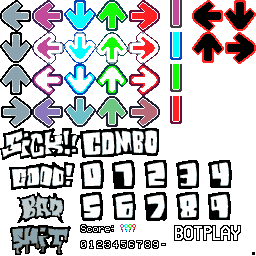
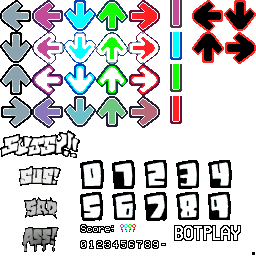
menu and hud stuff (not done)
still have to add difficulty select stuff, loading screen, and the title screen

Changed region(s): [[0.0, 0.5, 0.625, 1.0]]

diff --git a/src/menu.c b/src/menu.c
@@ -31,42 +31,14 @@ static u32 Sounds[3];
 static char scoredisp[30];
 //Menu messages
 static const char *funny_messages[][2] = {
-	{"PSX PORT BY CUCKYDEV", "YOU KNOW IT"},
-	{"PORTED BY CUCKYDEV", "WHAT YOU GONNA DO"},
-	{"FUNKIN", "FOREVER"},
-	{"WHAT THE HELL", "RITZ PSX"},
-	{"LIKE PARAPPA", "BUT COOLER"},
-	{"THE JAPI", "EL JAPI"},
-	{"PICO FUNNY", "PICO FUNNY"},
-	{"OPENGL BACKEND", "BY CLOWNACY"},
-	{"CUCKYFNF", "SETTING STANDARDS"},
-	{"lool", "inverted colours"},
-	{"NEVER LOOK AT", "THE ISSUE TRACKER"},
-	{"PSXDEV", "HOMEBREW"},
-	{"ZERO POINT ZERO TWO TWO EIGHT", "ONE FIVE NINE ONE ZERO FIVE"},
-	{"DOPE ASS GAME", "PLAYSTATION MAGAZINE"},
-	{"NEWGROUNDS", "FOREVER"},
-	{"NO FPU", "NO PROBLEM"},
-	{"OK OKAY", "WATCH THIS"},
-	{"ITS MORE MALICIOUS", "THAN ANYTHING"},
-	{"USE A CONTROLLER", "LOL"},
-	{"SNIPING THE KICKSTARTER", "HAHA"},
-	{"SHITS UNOFFICIAL", "NOT A PROBLEM"},
-	{"SYSCLK", "RANDOM SEED"},
-	{"THEY DIDNT HIT THE GOAL", "STOP"},
-	{"FCEFUWEFUETWHCFUEZDSLVNSP", "PQRYQWENQWKBVZLZSLDNSVPBM"},
-	{"THE FLOORS ARE", "THREE DIMENSIONAL"},
-	{"PSXFUNKIN BY CUCKYDEV", "SUCK IT DOWN"},
-	{"PLAYING ON EPSXE HUH", "YOURE THE PROBLEM"},
-	{"NEXT IN LINE", "ATARI"},
-	{"HAXEFLIXEL", "COME ON"},
-	{"HAHAHA", "I DONT CARE"},
-	{"GET ME TO STOP", "TRY"},
-	{"FNF MUKBANG GIF", "THATS UNRULY"},
-	{"OPEN SOURCE", "FOREVER"},
-	{"ITS A PORT", "ITS WORSE"},
-	{"WOW GATO", "WOW GATO"},
-	{"BALLS FISH", "BALLS FISH"},
+	{"PLAY THE MOD", "IN HARD"},
+	{"FNF FANS", "DONT SAY IT"},
+	{"SUMMER ALBUM", "NEVER PLAYABLE"},
+	{"AMONG", "BOY"},
+	{"LOGGOS BASICS", "IN HALLOWEEN"},
+	{"THE ORIGINS", "OF THIS CAT"},
+	{"BURGUNDY SAUCE", "TELL YOUR LOVED ONES"},
+	{"AMONGLY SUSMAN", "AWEOSME CREEPYPASTA"},
 };
 
 
@@ -154,7 +126,7 @@ static const char *Menu_LowerIf(const char *text, boolean lower)
 
 static void Menu_DrawBack(boolean flash, s32 scroll, u8 r0, u8 g0, u8 b0, u8 r1, u8 g1, u8 b1)
 {
-	RECT back_src = {0, 0, 255, 255};
+	RECT back_src = {0, 0, 255, 240};
 	RECT back_dst = {0, -scroll - screen.SCREEN_WIDEADD2, screen.SCREEN_WIDTH, screen.SCREEN_WIDTH * 4 / 5};
 	
 	if (flash || (animf_count & 4) == 0)
@@ -227,27 +199,15 @@ static void Menu_DrawWeek(const char *week, s32 x, s32 y)
 	//Draw label
 	if (week == NULL)
 	{
-		//Tutorial
+		//1
 		RECT label_src = {0, 0, 112, 32};
 		Gfx_BlitTex(&menu.tex_story, &label_src, x, y);
 	}
 	else
 	{
-		//Week
-		RECT label_src = {0, 32, 80, 32};
+		//2
+		RECT label_src = {0, 32, 112, 32};
 		Gfx_BlitTex(&menu.tex_story, &label_src, x, y);
-		
-		//Number
-		x += 80;
-		for (; *week != '\0'; week++)
-		{
-			//Draw number
-			u8 i = *week - '0';
-			
-			RECT num_src = {128 + ((i & 3) << 5), ((i >> 2) << 5), 32, 32};
-			Gfx_BlitTex(&menu.tex_story, &num_src, x, y);
-			x += 32;
-		}
 	}
 }
 
@@ -383,14 +343,11 @@ void Menu_Tick(void)
 				switch (beat)
 				{
 					case 3:
-						menu.font_bold.draw(&menu.font_bold, "PRESENT", screen.SCREEN_WIDTH2, screen.SCREEN_HEIGHT2 + 32, FontAlign_Center);
+						menu.font_bold.draw(&menu.font_bold, "PRESENTS", screen.SCREEN_WIDTH2, screen.SCREEN_HEIGHT2, FontAlign_Center);
 				//Fallthrough
 					case 2:
 					case 1:
-						menu.font_bold.draw(&menu.font_bold, "NINJAMUFFIN",   screen.SCREEN_WIDTH2, screen.SCREEN_HEIGHT2 - 32, FontAlign_Center);
-						menu.font_bold.draw(&menu.font_bold, "PHANTOMARCADE", screen.SCREEN_WIDTH2, screen.SCREEN_HEIGHT2 - 16, FontAlign_Center);
-						menu.font_bold.draw(&menu.font_bold, "KAWAISPRITE",   screen.SCREEN_WIDTH2, screen.SCREEN_HEIGHT2,      FontAlign_Center);
-						menu.font_bold.draw(&menu.font_bold, "EVILSKER",      screen.SCREEN_WIDTH2, screen.SCREEN_HEIGHT2 + 16, FontAlign_Center);
+						menu.font_bold.draw(&menu.font_bold, "LOGGO",   screen.SCREEN_WIDTH2, screen.SCREEN_HEIGHT2 - 16, FontAlign_Center);
 						break;
 					
 					case 7:
@@ -399,7 +356,7 @@ void Menu_Tick(void)
 				//Fallthrough
 					case 6:
 					case 5:
-						menu.font_bold.draw(&menu.font_bold, "IN ASSOCIATION", screen.SCREEN_WIDTH2, screen.SCREEN_HEIGHT2 - 64, FontAlign_Center);
+						menu.font_bold.draw(&menu.font_bold, "NOT ASSOCIATED", screen.SCREEN_WIDTH2, screen.SCREEN_HEIGHT2 - 64, FontAlign_Center);
 						menu.font_bold.draw(&menu.font_bold, "WITH",           screen.SCREEN_WIDTH2, screen.SCREEN_HEIGHT2 - 48, FontAlign_Center);
 						break;
 					
@@ -627,8 +584,8 @@ void Menu_Tick(void)
 			Menu_DrawBack(
 				menu.next_page == menu.page || menu.next_page == MenuPage_Title,
 				menu.scroll >> (FIXED_SHIFT + 3),
-				253 >> 1, 231 >> 1, 113 >> 1,
-				253 >> 1, 113 >> 1, 155 >> 1
+				47 >> 1, 203 >> 1, 85 >> 1,
+				116 >> 1, 47 >> 1, 75 >> 1
 			);
 			break;
 		}
@@ -642,8 +599,8 @@ void Menu_Tick(void)
 				const char *tracks[3];
 				int length;
 			} menu_options[] = {
-				{"1", StageId_1_1, "PLAY ON HARD MODE GUYS", {"CHRISTMAS", "SPOOKPOSTOR"}, 2},
-				{"2", StageId_1_4, "", {"GRINCH"}, 1},
+				{NULL, StageId_1_1, "PLAY ON HARD MODE GUYS", {"CHRISTMAS", "SPOOKPOSTOR"}, 2},
+				{"1", StageId_1_4, "", {"GRINCH"}, 1},
 			};
 	
 			//Draw week name and tracks
@@ -751,7 +708,10 @@ void Menu_Tick(void)
 			
 			//Draw upper strip
 			RECT name_bar = {0, 16, screen.SCREEN_WIDTH, 32};
-			Gfx_DrawRect(&name_bar, 249, 207, 81);
+			if (menu.select == 0)
+				Gfx_DrawRect(&name_bar, 26, 255, 255);
+			else
+				Gfx_DrawRect(&name_bar, 171, 29, 45);
 			
 			//Draw options
 			s32 next_scroll = menu.select * FIXED_DEC(48,1);
@@ -902,9 +862,7 @@ void Menu_Tick(void)
 			Menu_DrawBack(
 				true,
 				8,
-				menu.page_state.freeplay.back_r >> (FIXED_SHIFT + 1),
-				menu.page_state.freeplay.back_g >> (FIXED_SHIFT + 1),
-				menu.page_state.freeplay.back_b >> (FIXED_SHIFT + 1),
+				45 >> 1, 70 >> 1, 28 >> 1,
 				0, 0, 0
 			);
 			break;
@@ -1026,7 +984,7 @@ void Menu_Tick(void)
 			Menu_DrawBack(
 				true,
 				8,
-				197 >> 1, 240 >> 1, 95 >> 1,
+				112 >> 1, 54 >> 1, 121 >> 1,
 				0, 0, 0
 			);
 			break;
@@ -1179,7 +1137,7 @@ void Menu_Tick(void)
 			Menu_DrawBack(
 				true,
 				8,
-				253 >> 1, 113 >> 1, 155 >> 1,
+				112 >> 1, 54 >> 1, 121 >> 1,
 				0, 0, 0
 			);
 			break;

diff --git a/src/save.c b/src/save.c
@@ -12,7 +12,7 @@
 #include "stage.h"
 				  
 	        //HAS to be BASCUS-scusid,somename
-#define savetitle "bu00:BASCUS-01031christmas"
+#define savetitle "bu00:BASCUS-01031loggo"
 #define savename  "SecretChristmasPort"
 
 static const u8 saveIconPalette[32] = 
